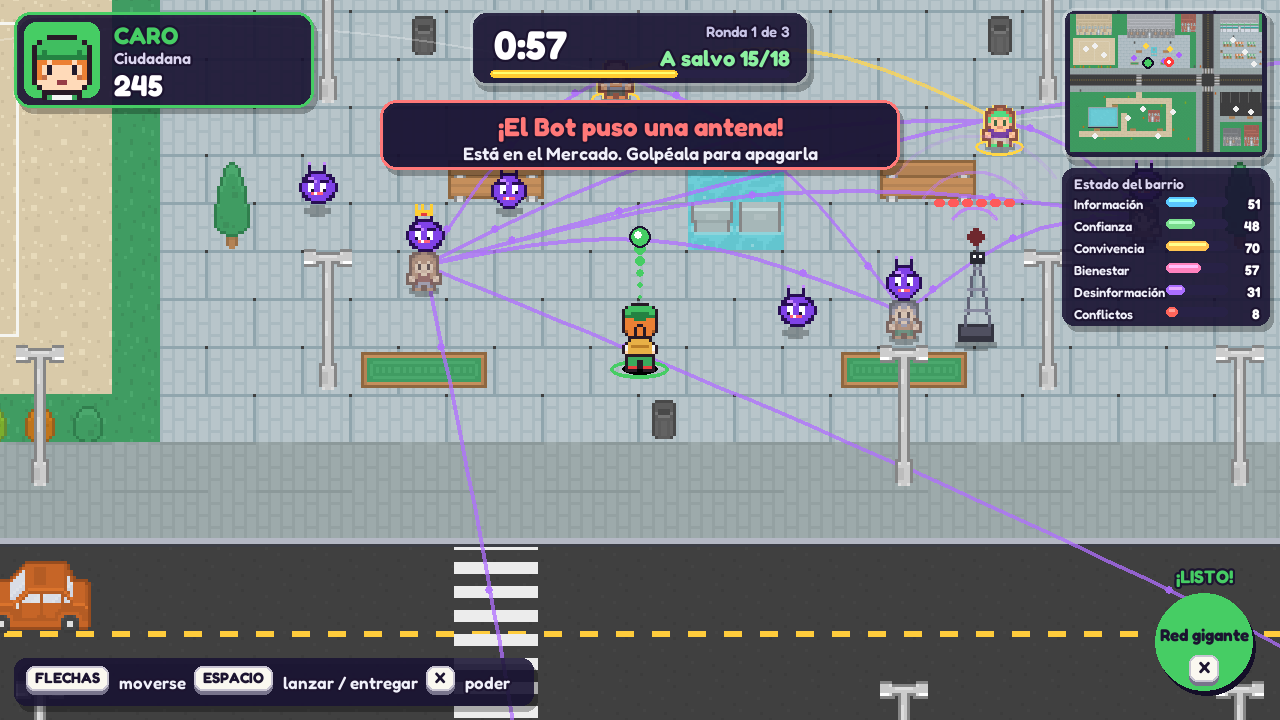
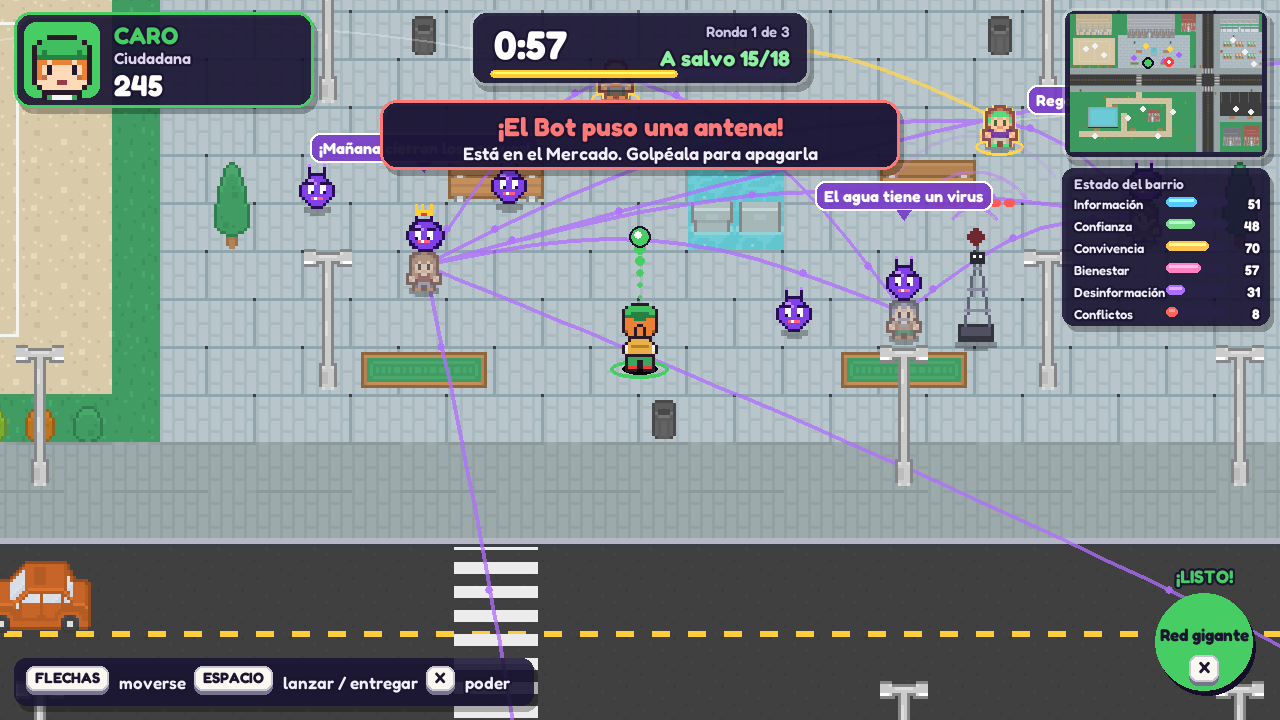
Cazabulos: los vecinos dicen el rumor o la noticia, botón ¡Jugar ya! y lanzar manteniendo Espacio
- Burbujas sobre los vecinos con el rumor que creyeron o la noticia real que recibieron
- Cada estrella trae un titular (real o falso) que se ve al mirarla
- Antenas en lugares despejados, nota del firewall para el modo en línea

diff --git a/cazabulos/mundo.py b/cazabulos/mundo.py
@@ -17,6 +17,13 @@ from .mapa import ANTENAS, NODOS, Mapa
 from .trafico import Trafico
 
 CANDIDATOS = ["Lucia", "Marcos", "Elena", "Emilio"]
+# Lo que dicen los vecinos: rumores (falsos) y noticias reales. Cortos para que se lean rápido.
+RUMORES = ["¡Van a cerrar el colegio!", "Dicen que el alcalde roba", "¡Mañana cierran los parques!",
+           "El agua tiene un virus", "Regalan celulares en la plaza", "¡Se cae el puente!",
+           "Ya no habrá recreo", "El bus 7 desaparece", "¡Prohíben los perros!", "Cierran el mercado"]
+REALES = ["La biblioteca abre el sábado", "Vacunas gratis en el parque", "Feria de ciencias el lunes",
+          "Arreglaron los semáforos", "Debate de candidatos el viernes", "Nueva ciclovía en la avenida",
+          "Concierto en la plaza", "El mercado abre más temprano"]
 T_VERIFICAR = 1.2
 ESCUDO = 12.0
 MAX_BULOS_LIBRES = 14
@@ -120,6 +127,7 @@ class Estrella:
         self.vida = 30.0
         self.revelada = False
         self.t = 0.0
+        self.titular = (RUMORES if falsa else REALES)[ident % (len(RUMORES) if falsa else len(REALES))]
 
 
 class Antena:
@@ -282,6 +290,9 @@ class Mundo:
 
     def sonar(self, nombre, x=None, y=None):
         self.emitir("sonido", nombre, x, y)
+
+    def decir(self, vecino, texto, color=(40, 30, 70)):
+        self.emitir("burbuja", vecino, texto, color)
 
     def mostrar_pista(self, clave, texto, teclas=()):
         if not self.pistas_on or clave in self.pistas_vistas:
@@ -456,12 +467,12 @@ class Mundo:
             j.stats["reportadas"] += 1
             j.estrella = None
             self.emitir("pop", j.x, j.y - 26, (150, 80, 240))
-            self.texto(j.x, j.y - 40, "¡Era un Bulo disfrazado!", (200, 160, 255))
+            self.texto(j.x, j.y - 40, f"Bulo: \"{s.titular}\"", (210, 170, 255))
             self.sonar("reporte")
             self.cargar(10)
         else:
             self.sonar("real")
-            self.texto(j.x, j.y - 40, "¡Es real!", (255, 230, 90))
+            self.texto(j.x, j.y - 40, f"Real: {s.titular}", (255, 230, 90))
             self.mostrar_pista("entregar", "Llévasela a un vecino y pulsa ESPACIO", ("ESPACIO",))
 
     def _aplicar_hoja(self, hoja, x, y):
@@ -537,6 +548,7 @@ class Mundo:
             self.sonar("mal")
             self.texto(v.x, v.y - 44, "¡Era un Bulo disfrazado!", (255, 120, 140), True)
             raiz = self._infectar(v, None)
+            self.decir(v.nombre, s.titular, (120, 60, 200))
             if beto and raiz is not None:
                 for u, nivel, padre in self.social.bfs(v.nombre, max_nivel=1)[1:]:
                     w = self.vecinos[u]
@@ -552,6 +564,7 @@ class Mundo:
             self._atrapar(v.bulo, curar_bonus=True)
             self.texto(v.x, v.y - 44, "¡La verdad cortó el rumor!", (255, 230, 120))
         v.escudo = dur
+        self.decir(v.nombre, f"¡Gracias! {s.titular}", (190, 130, 20))
         self.cargar(12)
         if beto:
             alcanzados = 0
@@ -578,6 +591,7 @@ class Mundo:
         self.sumar(20, (a.x + b.x) / 2, (a.y + b.y) / 2 - 20, "¡paz!")
         self.ajustar(convivencia=8, conflictos=-4, bienestar=3)
         self.emitir("corazones", (a.x + b.x) / 2, (a.y + b.y) / 2 - 22)
+        self.decir(a.nombre, "Perdón, no lo había verificado", (40, 150, 80))
         self.sonar("paz")
         self.cargar(15)
         if j.clave == "caro":
@@ -749,6 +763,7 @@ class Mundo:
         self.ajustar(confianza=-1.5, bienestar=-1)
         self.emitir("contagio", v.x, v.y - 22)
         self.sonar("contagio", v.x, v.y)
+        self.decir(v.nombre, RUMORES[b.id % len(RUMORES)], (120, 60, 200))
         return b.id
 
     def _bulos(self, dt):
@@ -829,14 +844,16 @@ class Mundo:
         self.ajustar(confianza=-1.5, bienestar=-1)
         if b.candidato:
             self.rumores[b.candidato] += 1
-            self.texto(v.x, v.y - 44, f"{v.nombre} cree el rumor sobre {b.candidato}", (220, 170, 255))
+            self.decir(v.nombre, f"¿Supiste lo de {b.candidato}?", (120, 60, 200))
+        else:
+            self.decir(v.nombre, RUMORES[b.id % len(RUMORES)], (120, 60, 200))
         self.emitir("contagio", v.x, v.y - 22)
         self.sonar("contagio", v.x, v.y)
         self.mostrar_pista("cabeza", "¡Un vecino tiene un Bulo! Lánzale a su cabeza para curarlo", ("ESPACIO",))
 
     def _rebote(self, b):
         v = self.vecinos[b.objetivo]
-        self.texto(v.x, v.y - 40, "¡No le creyó!", (255, 230, 120))
+        self.decir(v.nombre, "¡Eso ya lo verifiqué!", (190, 130, 20))
         self.emitir("pop", b.x, b.y, (255, 220, 90))
         self.sumar(5, v.x, v.y - 30)
         self.ajustar(informacion=1)
@@ -860,6 +877,7 @@ class Mundo:
                     v.bulo = None
                     v.salto = 0.4
                     j.stats["curados"] += 1
+                    self.decir(v.nombre, "¡Uy, era mentira!", (40, 150, 80))
                     self.ajustar(confianza=1.5, bienestar=1)
             if b.candidato:
                 self.defendidos[b.candidato] += 1
@@ -1107,6 +1125,8 @@ class Mundo:
                     p["t"] = 15.0 if not self.tranquilo else 20.0
                     a.ruta, b.ruta = [], []
                     self.emitir("pelea", a.nombre, b.nombre)
+                    self.decir(a.nombre, "¡Eso es mentira!", (200, 70, 60))
+                    self.decir(b.nombre, "¡Lo leí en Civitas!", (200, 70, 60))
                     self.sonar("pelea", a.x, a.y)
                     self.mostrar_pista("pelea", "¡Una pelea! Acércate y pulsa ESPACIO para calmarlos", ("ESPACIO",))
                 continue

diff --git a/cazabulos/render.py b/cazabulos/render.py
@@ -50,6 +50,7 @@ class Render:
         self.banners = []
         self.toasts = []
         self.brillos = {}
+        self.burbujas = {}
         self.temblor = 0.0
         self.capa = pygame.Surface((ANCHO, ALTO), pygame.SRCALPHA)
         self.oscuro = pygame.Surface((ANCHO, ALTO), pygame.SRCALPHA)
@@ -142,6 +143,8 @@ class Render:
                 self._estallido(fx[1], fx[2], (230, 230, 240), 5, vel=20, grav=0)
             elif tipo == "decision":
                 self.toasts.append([fx[2], 0.0])
+            elif tipo == "burbuja":
+                self.burbujas[fx[1]] = [fx[2], fx[3], 0.0]
         m.fx.clear()
 
     def _estallido(self, x, y, color, n, vel=80, grav=120, retraso=0.0, tam=1):
@@ -178,6 +181,9 @@ class Render:
             for e in lista:
                 e[-1] += dt
             lista[:] = [e for e in lista if e[-1] < dur]
+        for b in self.burbujas.values():
+            b[2] += dt
+        self.burbujas = {k: b for k, b in self.burbujas.items() if b[2] < 2.8}
         for c in self.cadenas:
             c[1] += dt
         self.cadenas = [c for c in self.cadenas if c[1] < 0.8]
@@ -247,6 +253,7 @@ class Render:
         self._proyectiles(pant)
         self._efectos(pant)
         self._luz_del_dia(pant)
+        self._burbujas(pant)
         self._textos(pant)
         self._flechas(pant)
         if getattr(self, "flash", 0) > 0:
@@ -611,6 +618,28 @@ class Render:
                 img = sprites.luz(r * ESC // 2)
                 s.blit(img, (sx - img.get_width() // 2, sy - img.get_height() // 2), special_flags=pygame.BLEND_RGBA_SUB)
             pant.blit(s, (0, 0))
+
+    def _burbujas(self, pant):
+        """Lo que dicen los vecinos (el rumor que creyeron o la noticia que recibieron)."""
+        for nombre, (txt, color, t) in self.burbujas.items():
+            v = self.m.vecinos.get(nombre)
+            if v is None or not self.visible(v.x, v.y, 0):
+                continue
+            sx, sy = self.a_pantalla(v.x, v.y - (40 if v.bulo is not None else 30))
+            alfa = int(255 * max(0.0, min(1.0, t / 0.15, (2.8 - t) / 0.3)))
+            img = render(txt, 16, (255, 255, 255), 700, None)
+            r = img.get_rect(midbottom=(sx, sy - 10 - min(1.0, t / 0.15) * 4))
+            caja = r.inflate(18, 10)
+            caja.clamp_ip(pygame.Rect(6, 6, ANCHO - 12, ALTO - 12))
+            s = pygame.Surface((caja.w, caja.h + 10), pygame.SRCALPHA)
+            pygame.draw.rect(s, (*color, min(235, alfa)), (0, 0, caja.w, caja.h), border_radius=10)
+            pygame.draw.rect(s, (255, 255, 255, alfa), (0, 0, caja.w, caja.h), 2, border_radius=10)
+            cx = max(10, min(caja.w - 10, int(sx - caja.x)))
+            pygame.draw.polygon(s, (*color, min(235, alfa)), [(cx - 7, caja.h - 1), (cx + 7, caja.h - 1), (cx, caja.h + 9)])
+            pant.blit(s, caja.topleft)
+            img2 = img.copy()
+            img2.set_alpha(alfa)
+            pant.blit(img2, img2.get_rect(center=caja.center))
 
     def _textos(self, pant):
         for x, y, s, color, grande, t in self.textos:

diff --git a/cazabulos/pantallas/menu.py b/cazabulos/pantallas/menu.py
@@ -39,17 +39,18 @@ class Titulo(Escena):
         self.velo = pygame.Surface((ANCHO, ALTO), pygame.SRCALPHA)
         for y in range(0, ALTO, 4):
             self.velo.fill((18, 12, 44, int(90 + 110 * abs(y - 330) / 400)), (0, y, ANCHO, 4))
-        from .seleccion import Preparar
+        from .seleccion import Preparar, Seleccion
         from .ayuda import Ayuda
         from .en_linea import EnLinea
         self.botones = Botonera([
-            ("¡A jugar!", lambda: app.cambiar(Preparar(app))),
+            ("¡Jugar ya!", lambda: app.cambiar(Seleccion(app, 1, 1, 60, app.op.get("tranquilo", False)))),
+            ("Con amigos (mismo PC)", lambda: app.cambiar(Preparar(app))),
             ("En línea", lambda: app.cambiar(EnLinea(app))),
             ("Ayuda", lambda: app.cambiar(Ayuda(app))),
             ("Opciones", lambda: app.cambiar(Opciones(app))),
             ("Récords", lambda: app.cambiar(RecordsPantalla(app))),
             ("Salir", self._salir),
-        ], centro=(ANCHO // 2, 470), ancho=330, alto=50, sep=10, tam=26)
+        ], centro=(ANCHO // 2, 474), ancho=360, alto=44, sep=8, tam=24)
 
     def _salir(self):
         self.app.corriendo = False

diff --git a/cazabulos/pantallas/juego.py b/cazabulos/pantallas/juego.py
@@ -80,6 +80,9 @@ class PantallaJuego(Escena):
         k = pygame.key.get_pressed()
         e = {"izq": k[pygame.K_LEFT] or k[pygame.K_a], "der": k[pygame.K_RIGHT] or k[pygame.K_d],
              "arriba": k[pygame.K_UP] or k[pygame.K_w], "abajo": k[pygame.K_DOWN] or k[pygame.K_s]}
+        # mantener ESPACIO presionado también lanza (a los niños pequeños les pasa mucho)
+        if (k[pygame.K_SPACE] or k[pygame.K_z]) and self.m.jugador.enfriar <= 0 and not self.m.jugador.estrella:
+            e["accion"] = True
         e.update(self.entrada)
         self.entrada = {}
         return e

diff --git a/cazabulos/mapa.py b/cazabulos/mapa.py
@@ -41,7 +41,7 @@ ARISTAS = [
     ("Esquina SE", "Entrada terminal"), ("Entrada terminal", "Terminal"), ("Terminal", "Paradero"),
 ]
 # Lugares donde el Bot puede plantar su antena (en tiles)
-ANTENAS = [(12, 10), (37, 15), (61, 8), (37, 31), (3, 35), (61, 31), (28, 42), (20, 9)]
+ANTENAS = [(12, 10), (36, 11), (61, 8), (37, 31), (3, 35), (61, 31), (8, 27), (24, 9)]
 
 TECHO = {"rojo": 0, "gris": 8, "claro": 16, "beige": 24}
 FACHADA = {"rojo": (148, 185, 407), "gris": (152, 189, 411), "beige": (156, 193, 415), "vitrina": (160, 197, 419)}

diff --git a/README.md b/README.md
@@ -14,7 +14,7 @@ Ciudad Nova va a elegir alcalde y por la red social Civitas corren los **Bulos**
 | Tecla | Qué hace |
 |---|---|
 | **Flechas** (o WASD) | Caminar por el barrio |
-| **Espacio** | Lanzar tu herramienta a los Bulos (o a la cabeza de un vecino para curarlo, o a la antena). Junto a un vecino con una estrella: entregársela. Junto a dos vecinos peleando: calmarlos |
+| **Espacio** (se puede mantener) | Lanzar tu herramienta a los Bulos (o a la cabeza de un vecino para curarlo, o a la antena). Junto a un vecino con una estrella: entregársela. Junto a dos vecinos peleando: calmarlos |
 | **X** | El poder de tu personaje, cuando el círculo se llena |
 | **Esc** | Pausa · **M** silencia la música · **F11** pantalla completa |
 
@@ -40,6 +40,7 @@ La piel y el color de pelo se pueden cambiar al elegir.
 
 ## Modos
 
+- **¡Jugar ya!:** un turno de 60 segundos sin configurar nada, ideal para la fila de la feria.
 - **Mismo computador (1 a 4):** no se comparte el teclado. Cada uno juega su turno de 60, 90 o 120 segundos y le pasa el teclado al siguiente. En cada ronda todos juegan **el mismo barrio con los mismos eventos** (misma semilla), así es justo. Hasta 3 rondas: mañana, tarde y noche.
 - **En línea (2 a 4 computadores en la misma red):** uno crea la sala y los demás escriben la dirección que aparece. Todos juegan a la vez, ven a los rivales como fantasmas y el marcador en vivo.
 
@@ -65,6 +66,8 @@ python main.py
 ```
 
 En Windows también funciona con doble clic en `jugar.bat`. Servidor sin ventana para el modo en línea: `python servidor.py`.
+
+Para jugar en línea, los computadores deben estar en la misma red. La primera vez, Windows puede preguntar si deja que Python use la red: hay que dar **Permitir** en el computador que crea la sala.
 
 Pruebas:
 
